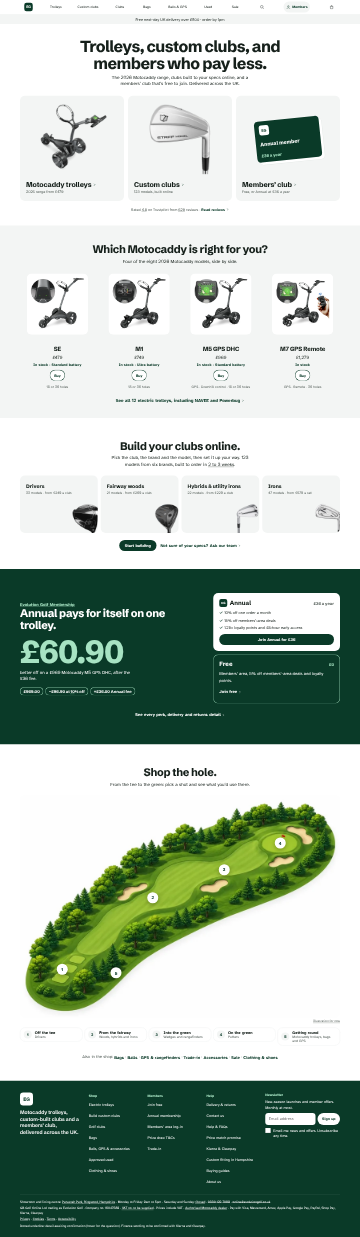
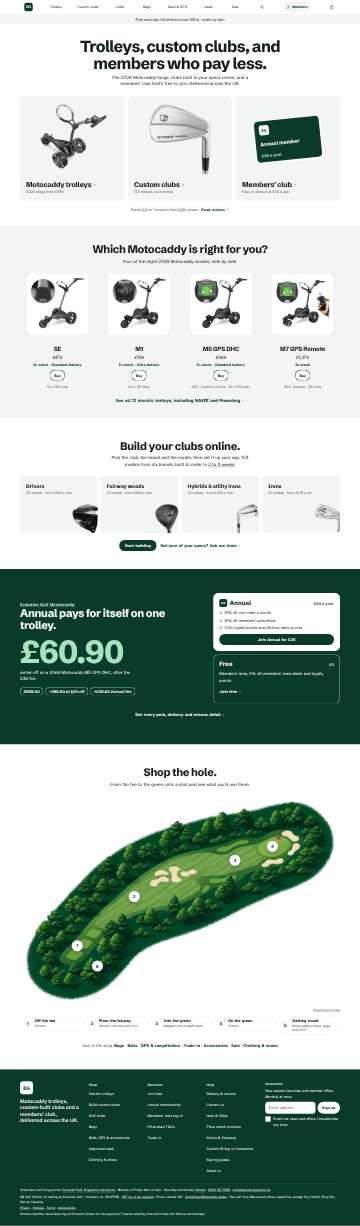
Shop the hole: switch to the owner's darker, on-brand illustration; re-place pins
Claude-Session: https://claude.ai/code/session_01FmqF5bQkMPdwjJJ5PpCtXL

diff --git a/mockups/dist/concepts/showroomplus2.html b/mockups/dist/concepts/showroomplus2.html
@@ -108,8 +108,8 @@
   <div class="p-copy"><h2 id="h-t">Shop the hole.</h2>
     <p class="p-sub">From the tee to the green: pick a shot and see what you’d use there.</p></div>
   <div class="h-course h-course--photo">
-    <img class="h-photo" src="assets/img/scenes/hole-illustration-1600.webp" srcset="assets/img/scenes/hole-illustration-800.webp 800w, assets/img/scenes/hole-illustration-1600.webp 1600w" sizes="(min-width: 1360px) 1280px, 94vw" alt="Illustration of a golf hole from the tee to the green" width="1600" height="1109" loading="lazy">
-    <span class="h-pin" style="left:13.2%;top:78.4%" aria-hidden="true">1</span><span class="h-pin" style="left:41.5%;top:46.1%" aria-hidden="true">2</span><span class="h-pin" style="left:63.8%;top:33.5%" aria-hidden="true">3</span><span class="h-pin" style="left:81.3%;top:21.4%" aria-hidden="true">4</span><span class="h-pin" style="left:30%;top:80%" aria-hidden="true">5</span>
+    <img class="h-photo" src="assets/img/scenes/hole-illustration-1600.webp" srcset="assets/img/scenes/hole-illustration-800.webp 800w, assets/img/scenes/hole-illustration-1600.webp 1600w" sizes="(min-width: 1360px) 1280px, 94vw" alt="Illustration of a golf hole from the tee to the green" width="1600" height="1052" loading="lazy">
+    <span class="h-pin" style="left:17.9%;top:71.4%" aria-hidden="true">1</span><span class="h-pin" style="left:35.7%;top:48%" aria-hidden="true">2</span><span class="h-pin" style="left:67.2%;top:30.8%" aria-hidden="true">3</span><span class="h-pin" style="left:78.9%;top:24.1%" aria-hidden="true">4</span><span class="h-pin" style="left:24.2%;top:81.1%" aria-hidden="true">5</span>
   </div>
   <p class="h-cap"><span class="q" title="To be confirmed: Owner-supplied illustration used as a placeholder; swap for a licensed aerial photo (docs/briefs/shop-the-hole-photo.md) and re-place the pins.">Illustration for now</span></p>
   <ul class="h-stops" aria-label="Shop by shot">

diff --git a/mockups/dist/concepts/assets/css/concepts/v2pages.css b/mockups/dist/concepts/assets/css/concepts/v2pages.css
@@ -496,10 +496,10 @@ main:not(.v) { gap: 0; padding: 0; }
 .p-btn:hover { background: #146142; }
 .p-btn--ghost:hover { background: var(--mist); color: var(--green); }
 /* shop the hole: the owner's illustration (placeholder for a photo), shown whole on white */
-.h-course--photo { aspect-ratio: 1600 / 1109; background: #fff; border: 0; }
+.h-course--photo { aspect-ratio: 1600 / 1052; background: #fff; border: 0; }
 .h-course--photo .h-photo { object-fit: contain; }
 .h-cap { max-width: var(--wrap); margin: 6px auto 0; text-align: right; font-size: 13px; color: var(--slate); }
-@media (max-width: 899px) { .h-course--photo { aspect-ratio: 1600 / 1109; } }
+@media (max-width: 899px) { .h-course--photo { aspect-ratio: 1600 / 1052; } }
 @media (max-width: 899px) { .h-course--photo .h-pin { display: grid; width: 26px; height: 26px; font-size: 13px; } }
 
 /* ===== v2 page templates: collection + product (appended to showroomplus2.css) ===== */

diff --git a/mockups/assets/css/concepts/showroomplus2.css b/mockups/assets/css/concepts/showroomplus2.css
@@ -496,8 +496,8 @@ main:not(.v) { gap: 0; padding: 0; }
 .p-btn:hover { background: #146142; }
 .p-btn--ghost:hover { background: var(--mist); color: var(--green); }
 /* shop the hole: the owner's illustration (placeholder for a photo), shown whole on white */
-.h-course--photo { aspect-ratio: 1600 / 1109; background: #fff; border: 0; }
+.h-course--photo { aspect-ratio: 1600 / 1052; background: #fff; border: 0; }
 .h-course--photo .h-photo { object-fit: contain; }
 .h-cap { max-width: var(--wrap); margin: 6px auto 0; text-align: right; font-size: 13px; color: var(--slate); }
-@media (max-width: 899px) { .h-course--photo { aspect-ratio: 1600 / 1109; } }
+@media (max-width: 899px) { .h-course--photo { aspect-ratio: 1600 / 1052; } }
 @media (max-width: 899px) { .h-course--photo .h-pin { display: grid; width: 26px; height: 26px; font-size: 13px; } }

diff --git a/mockups/dist/concepts/assets/css/concepts/showroomplus2.css b/mockups/dist/concepts/assets/css/concepts/showroomplus2.css
@@ -496,8 +496,8 @@ main:not(.v) { gap: 0; padding: 0; }
 .p-btn:hover { background: #146142; }
 .p-btn--ghost:hover { background: var(--mist); color: var(--green); }
 /* shop the hole: the owner's illustration (placeholder for a photo), shown whole on white */
-.h-course--photo { aspect-ratio: 1600 / 1109; background: #fff; border: 0; }
+.h-course--photo { aspect-ratio: 1600 / 1052; background: #fff; border: 0; }
 .h-course--photo .h-photo { object-fit: contain; }
 .h-cap { max-width: var(--wrap); margin: 6px auto 0; text-align: right; font-size: 13px; color: var(--slate); }
-@media (max-width: 899px) { .h-course--photo { aspect-ratio: 1600 / 1109; } }
+@media (max-width: 899px) { .h-course--photo { aspect-ratio: 1600 / 1052; } }
 @media (max-width: 899px) { .h-course--photo .h-pin { display: grid; width: 26px; height: 26px; font-size: 13px; } }
